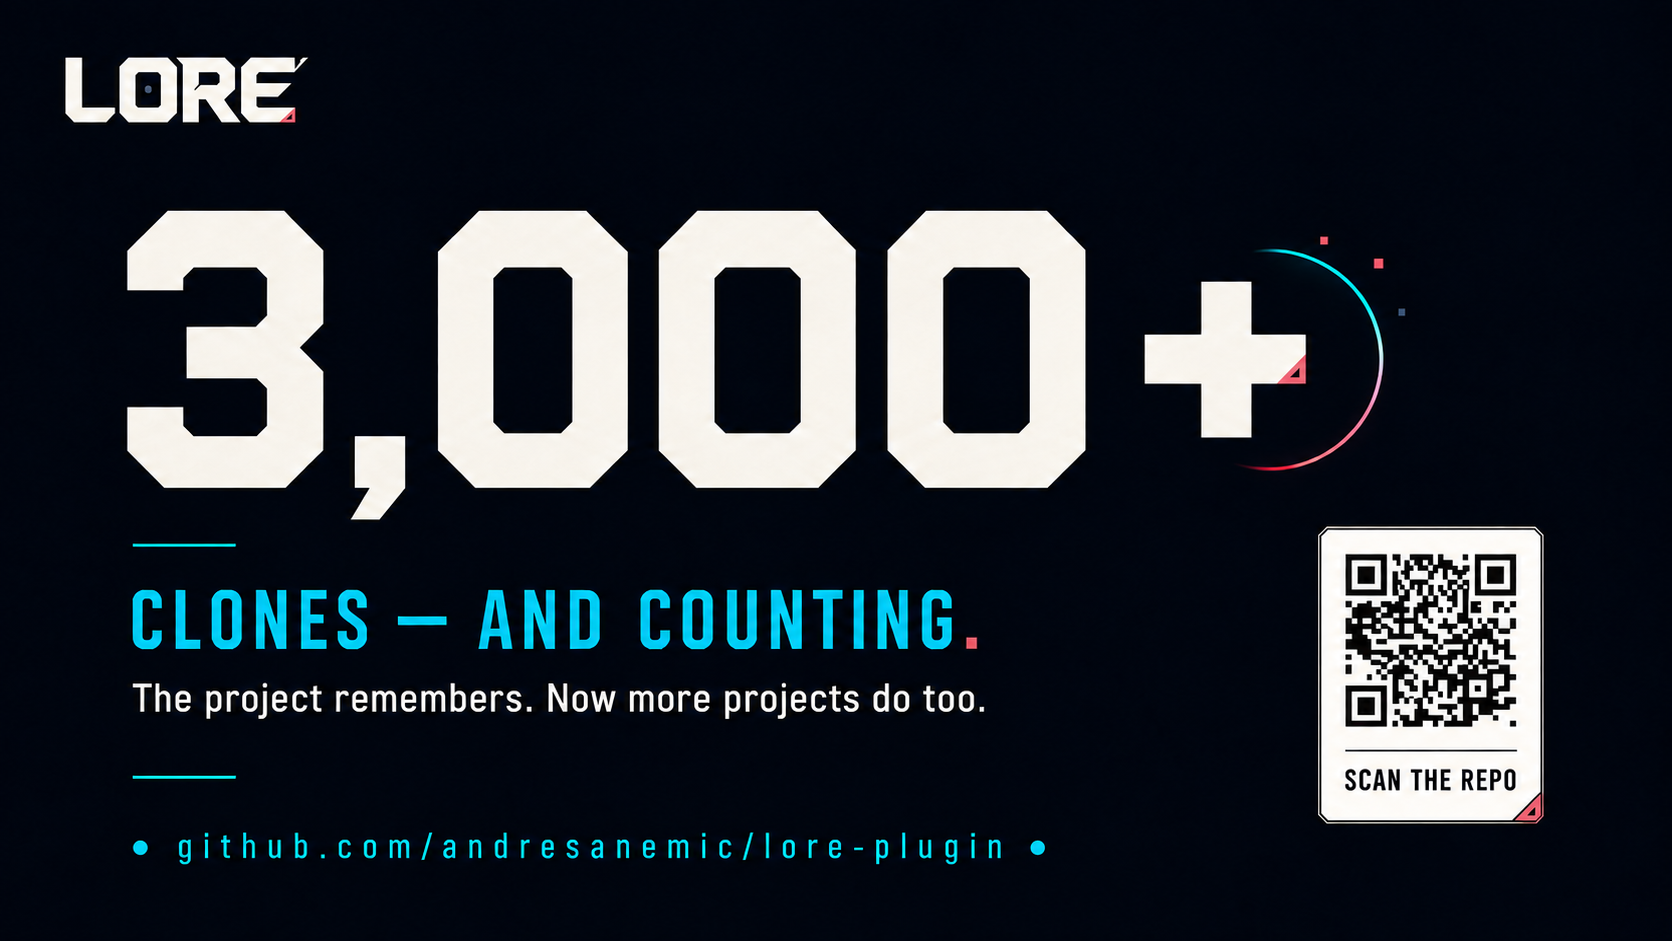
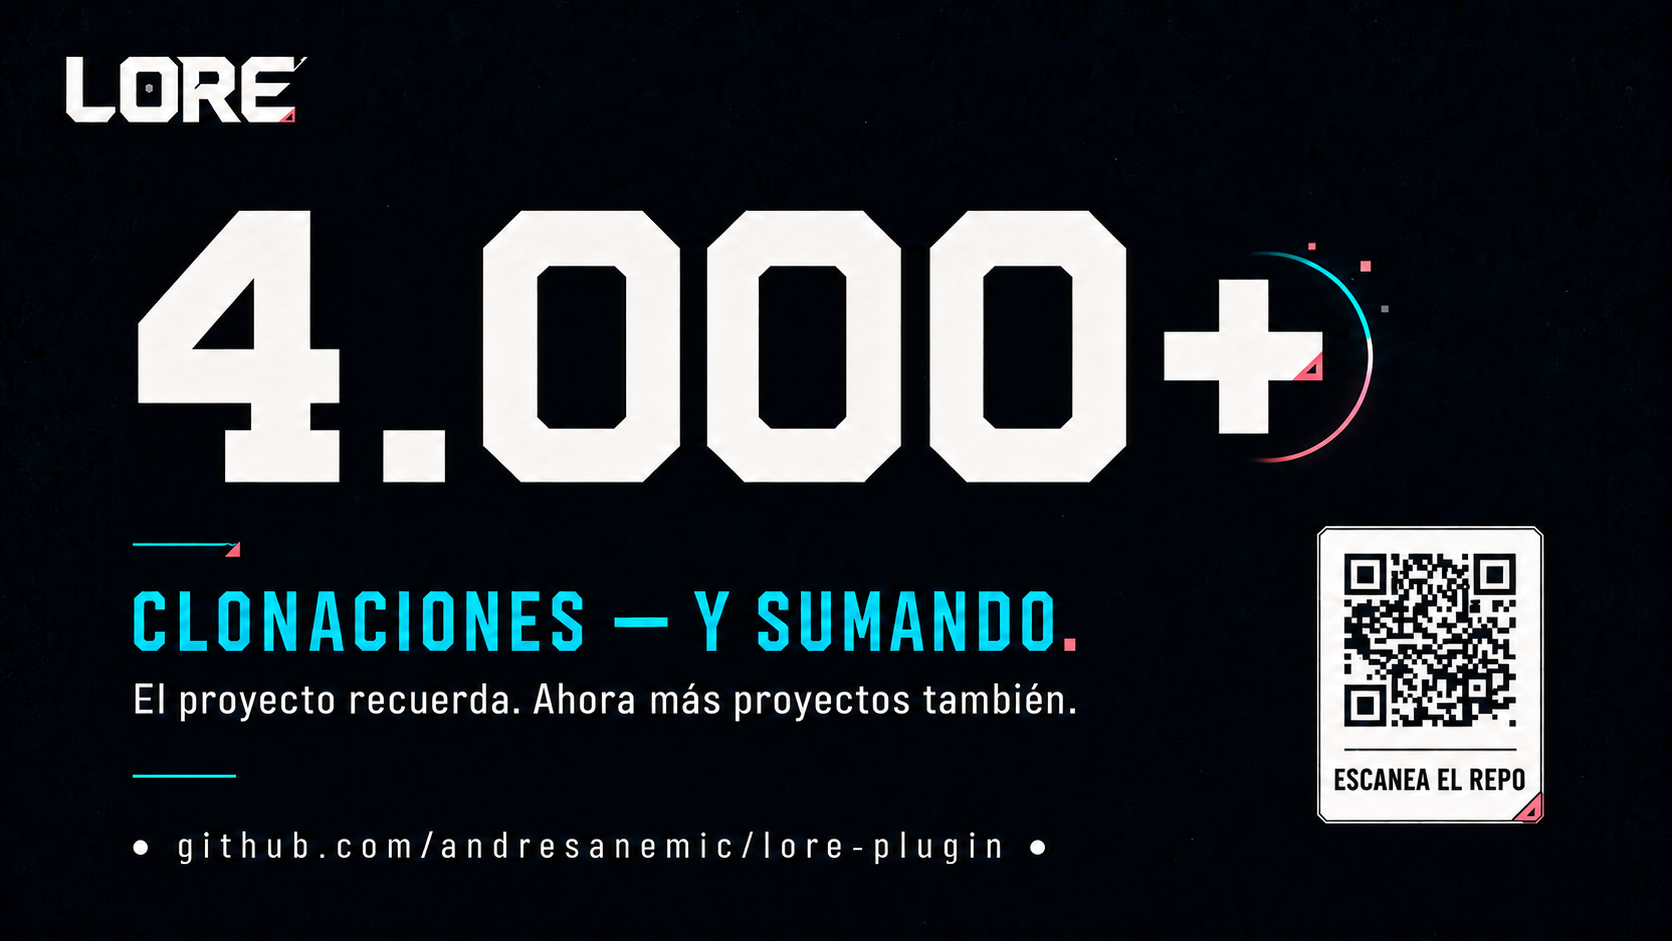
README: imágenes Reach 4.000+, deck del webinar en PDF, la app como idea sin imagen
Claude-Session: https://claude.ai/code/session_01XG4vGg1QuY3CXQggXFrEQB

diff --git a/README.md b/README.md
@@ -20,15 +20,11 @@
 
 <p align="center"><a href="./docs/90_SECONDS_en.md">Start with the 90-second guide →</a> · <a href="https://github.com/andresanemic/lore-plugin">Clone the repository</a></p>
 
-### Where this is going: Vespi Hive
-
-Lore Plugin is powerful and, today, it asks you to learn its vocabulary and work from a terminal. That entry barrier is what **Vespi Hive** removes: an app that runs on top of this kit and the Vespi kernel, with a graphical interface, so that nobody needs the commands, the terms or the files. What you see below is a proof of concept with fictional data. It is not the installable app; it is what we build next.
-
-![Vespi Hive proof of concept: companions with a limit written on each one, and medals earned only by verified operations](./assets/hive/hive-poc-en.jpg)
-
 **Not sure whether to try it?** Share this repository's link with your AI agent, ask what Lore Plugin and Vespi are, and let it tell you whether it recommends installing them in one of your projects.
 
 **In plain words.** *Lore*: your project's criteria, as plain Markdown files you approve. *Save to Lore*: turn a correction you made into a criterion for next time. *Prune*: retire rules that no longer apply. *Graft*: bring in an idea from outside only after checking where it loses against your criteria. *Transmute*: reorganize or migrate a Lore tree. *Crystallize*: pack a bot's criteria into one file to carry it elsewhere.
+
+**Where this is going.** Today you run Lore Plugin from a terminal, and that is the entry barrier. **Vespi Hive** is the app we are building on top of this kit and the Vespi kernel so it keeps coming down: a graphical interface where nobody needs the command line, the vocabulary or the files. It is not installable yet.
 
 ---
 
@@ -472,7 +468,7 @@ Morin gives this work its ethical north: in UNESCO's [*Seven Complex Lessons in 
   <img src="./assets/deck-cover-en.png" alt="LUS + Lore Plugin deck — cover slide" width="100%">
 </p>
 
-The full **LUS + Lore Plugin** talk — what Lore Plugin is, the LUS research behind it, and how a project goes from zero to its first useful Lore: **[open the deck →](https://docs.google.com/presentation/d/1p1JoHTVL_A1EW3hG82E6rZpyysznmJbb/edit?usp=sharing)**
+The full **LUS + Lore Plugin** talk — what Lore Plugin is, the LUS research behind it, and how a project goes from zero to its first useful Lore: **[open the deck →](https://drive.google.com/file/d/1lG5DOOS6z4Kzz6PfZIPP2RXW_LXN_U1g/view?usp=sharing)**
 
 ---
 
@@ -540,15 +536,11 @@ He helped establish UTEM's **Design Thinking** course and taught it from 2023 to
 
 <p align="center"><a href="./docs/90_SECONDS_es.md">Empieza con la guía de 90 segundos →</a> · <a href="https://github.com/andresanemic/lore-plugin">Clona el repositorio</a></p>
 
-### Hacia dónde va: Vespi Hive
-
-Lore Plugin es potente y, hoy, te pide aprender su vocabulario y trabajar desde una terminal. Esa barrera de entrada es lo que quita **Vespi Hive**: una app que corre sobre este kit y el kernel de Vespi, con interfaz gráfica, para que nadie necesite los comandos, los términos ni los archivos. Lo que ves abajo es una prueba de concepto con datos ficticios. No es la app instalable; es lo que construimos después.
-
-![Prueba de concepto de Vespi Hive: compañeras con un límite escrito en cada una y medallas que solo gana una operación verificada](./assets/hive/hive-poc-es.jpg)
-
 **¿No sabes si probarlo?** Comparte el enlace de este repositorio con tu agente de IA, pregúntale de qué tratan Lore Plugin y Vespi y deja que te diga si te recomienda instalarlos en alguno de tus proyectos.
 
 **En palabras simples.** *Lore*: los criterios de tu proyecto, como archivos Markdown que tú apruebas. *Guardar en Lore*: convertir una corrección tuya en un criterio para la próxima vez. *Podar*: retirar reglas que ya no aplican. *Injertar*: traer una idea de afuera solo después de ver dónde pierde frente a tus criterios. *Transmutar*: reorganizar o migrar un árbol de Lore. *Cristalizar*: empacar los criterios de un bot en un solo archivo para llevarlo a otro lado.
+
+**Hacia dónde va.** Hoy corres Lore Plugin desde una terminal, y esa es la barrera de entrada. **Vespi Hive** es la app que construimos sobre este kit y el kernel de Vespi para que siga bajando: una interfaz gráfica donde nadie necesita la línea de comandos, el vocabulario ni los archivos. Aún no es instalable.
 
 ---
 
@@ -1006,7 +998,7 @@ Lore no se diseñó de antemano: cada decisión salió de aplicarlo a proyectos 
 ## Alcance
 
 <p align="center">
-  <img src="./assets/reach-es.png" alt="3.000+ clonaciones y sumando" width="100%">
+  <img src="./assets/reach-es.png" alt="4.000+ clonaciones desde el lanzamiento (registradas, no personas únicas)" width="100%">
 </p>
 
 <p align="center">
@@ -1033,7 +1025,7 @@ Morin le da a este trabajo su norte ético: en la edición de UNESCO de [*Los si
   <img src="./assets/deck-cover.png" alt="Deck LUS + Lore Plugin — portada" width="100%">
 </p>
 
-La charla completa de **LUS + Lore Plugin** — qué es Lore Plugin, la investigación LUS que hay detrás y cómo un proyecto va de cero a su primer Lore útil: **[abrir el deck →](https://docs.google.com/presentation/d/1eg0OBUwm86yMp3OYFBX_z9pyLrXPCKZV/edit?usp=sharing)**
+La charla completa de **LUS + Lore Plugin** — qué es Lore Plugin, la investigación LUS que hay detrás y cómo un proyecto va de cero a su primer Lore útil: **[abrir el deck →](https://drive.google.com/file/d/1LkcSXeVLxstZiNhiVpq8zU1_Kn-61qUl/view?usp=drive_link)**
 
 ---
 
